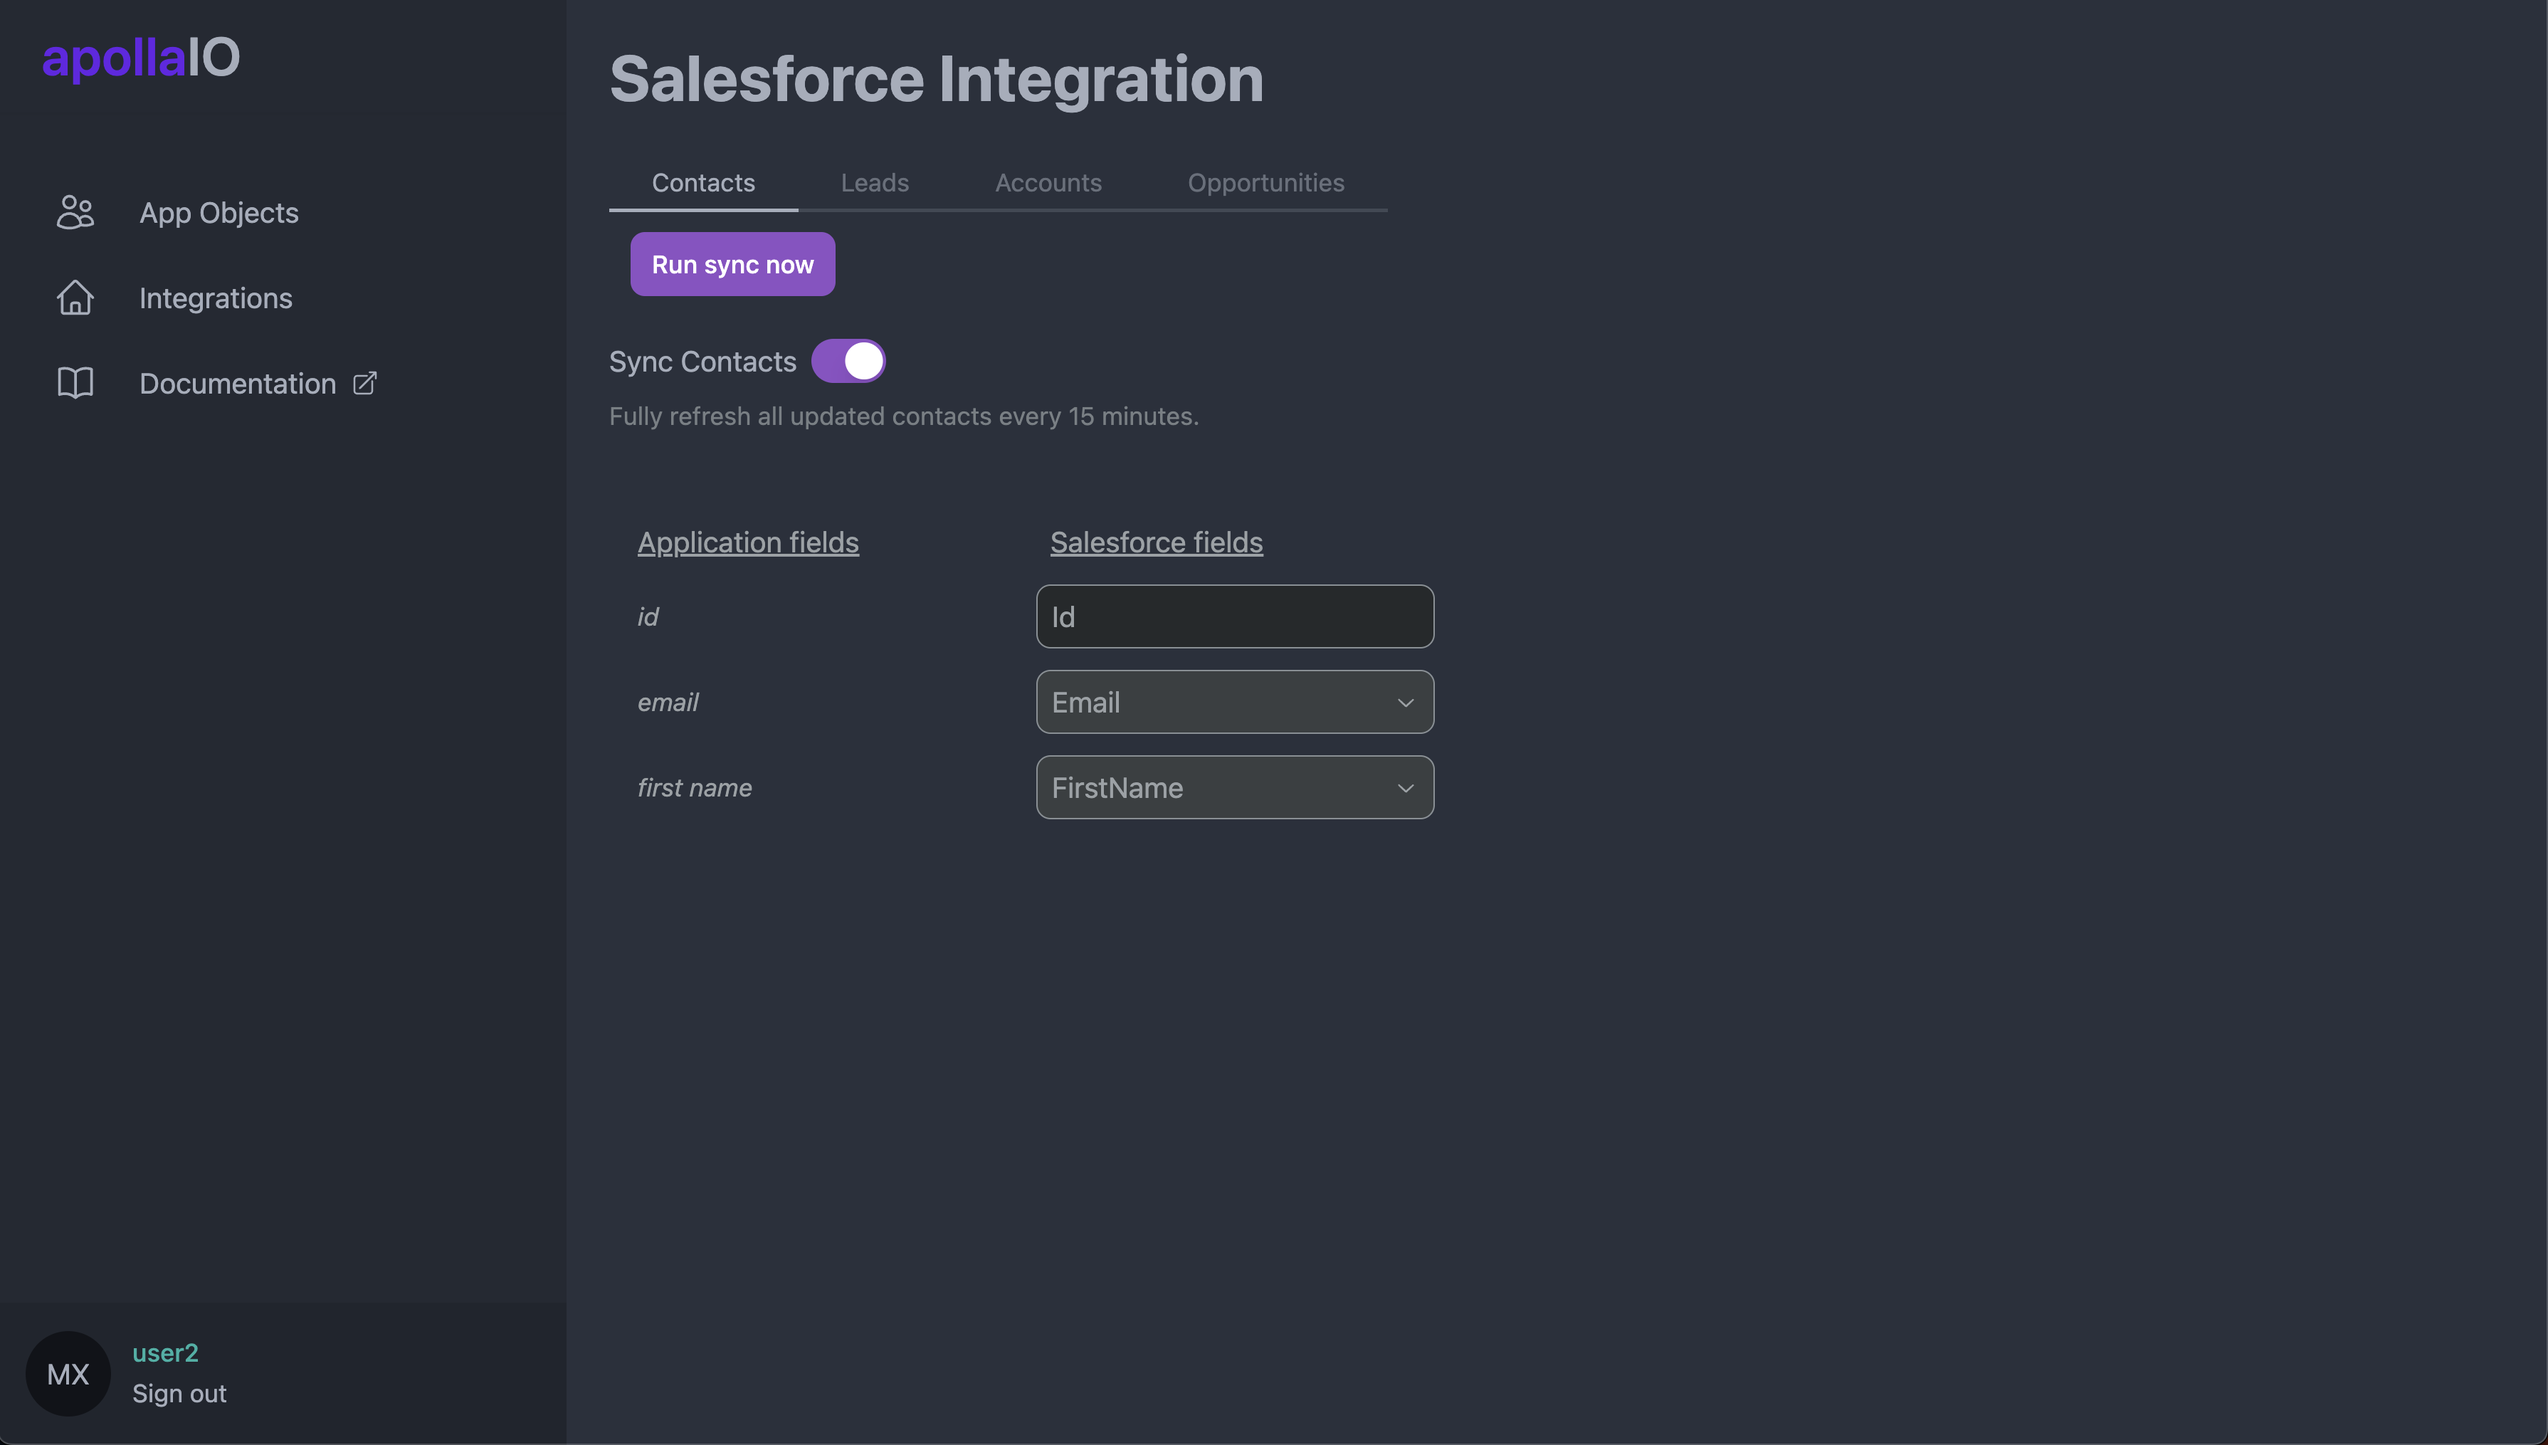
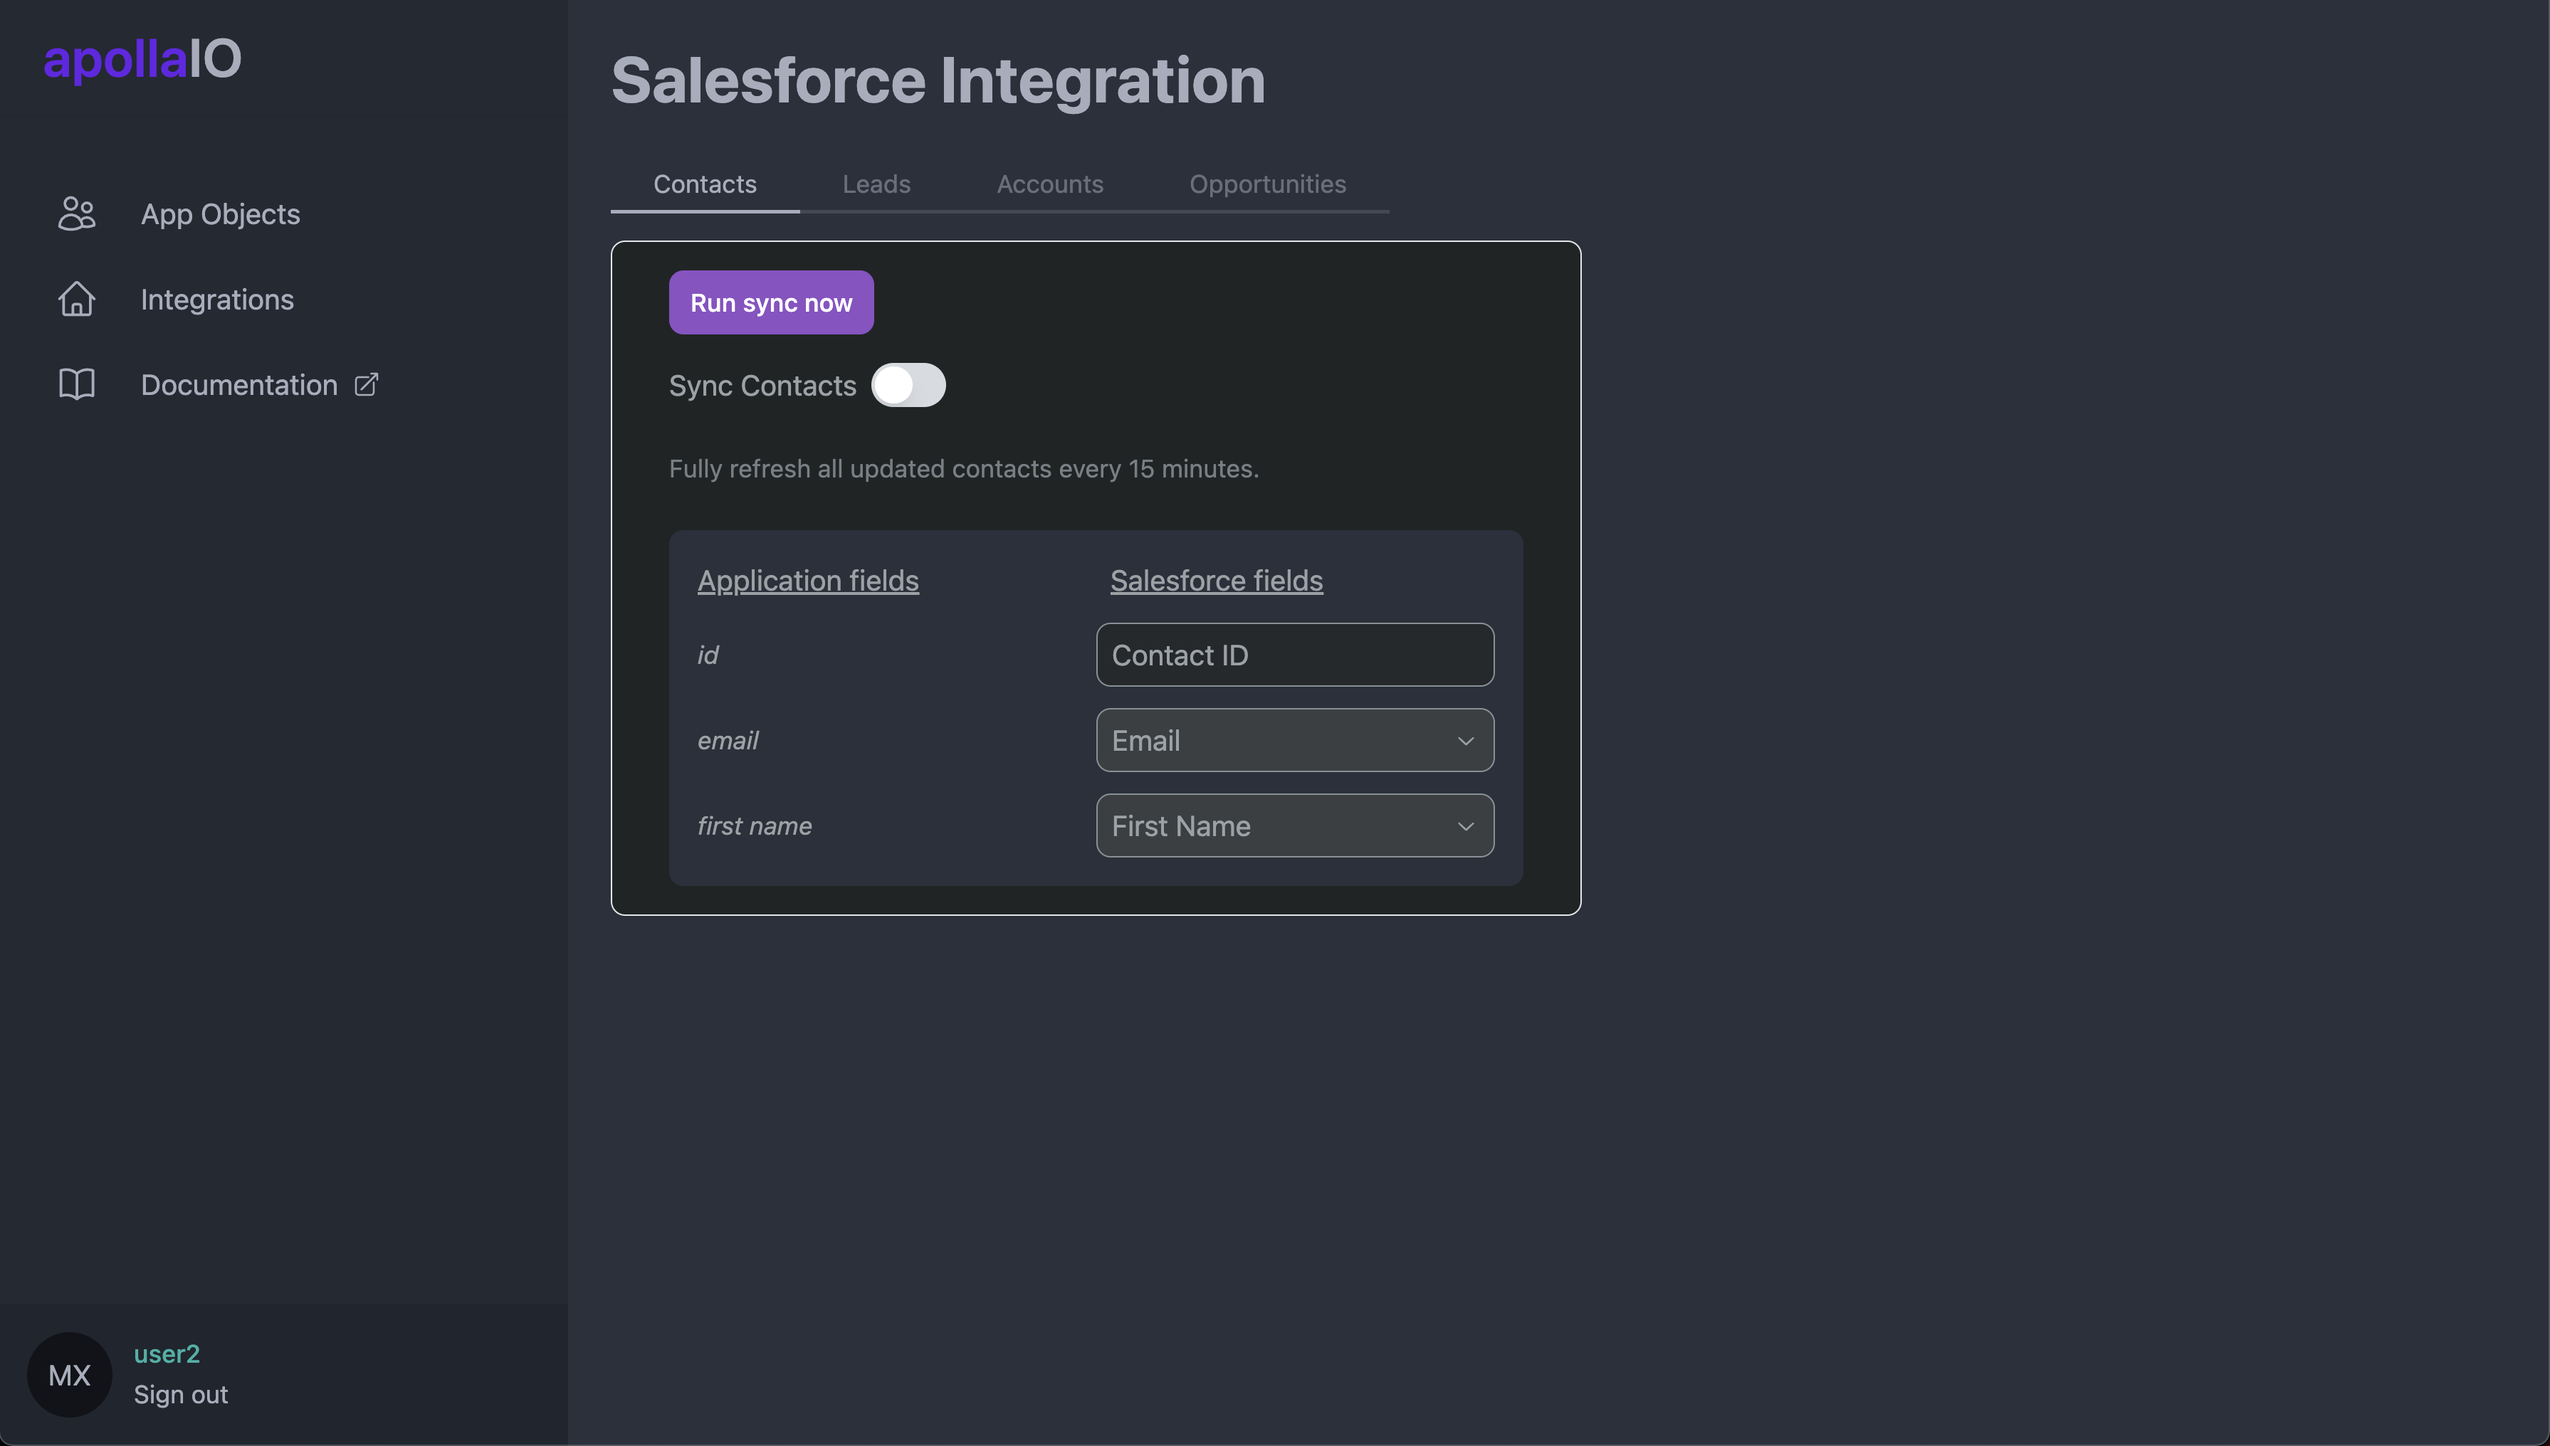
docs: update docs with new instructions and screenshots

diff --git a/apps/sample-app/pages/integrations/[type].tsx b/apps/sample-app/pages/integrations/[type].tsx
@@ -63,7 +63,16 @@ const SyncConfiguration = () => {
     <>
       <PageTabs className="" tabs={pageTabs} disabled={false} />
       <div className="flex pt-4">
-        <SyncConfigCard syncConfigName={syncConfigName} />
+        <SyncConfigCard
+          syncConfigName={syncConfigName}
+          // TUTORIAL: uncomment this
+          // appearance={{
+          //   elements: {
+          //     form: 'bg-base-100',
+          //     fieldName: 'italic text-sm',
+          //   },
+          // }}
+        />
       </div>
     </>
   );

diff --git a/docs/docs/tutorial.md b/docs/docs/tutorial.md
@@ -140,43 +140,6 @@ For this tutorial, we've included a sample [Developer Config](/concepts#develope
    Syncs Created: 1, Updated: 0, Deleted: 0, No Change: 3
    ```
 
-### Embed Salesforce integration UI
-
-Next, embed a Supaglue React component in the sample app that customers can use to further configure the integration for their own Salesforce instances.
-
-:::info
-
-The sample app already contains some Supaglue embedded components, <`IntegrationCard/>`, `<FieldMapping/>` and `<TriggerSyncButton/>`, for your reference.
-
-:::
-
-1.  Embed [`<SwitchSwitch/>`](react-components/#syncswitch) into `integrations/[type].tsx` in the sample app by uncommenting the code inside of `getSwitch()`:
-
-    ```tsx title=apps/sample-app/pages/integrations/[type]
-    // TUTORIAL: Uncomment this
-    import { SyncSwitch } from '@supaglue/nextjs';
-
-    // ...
-    const getSwitch = (syncConfigName: string) => {
-      // TUTORIAL: uncomment this
-      return (
-        <div className="py-2">
-          <SyncSwitch includeSyncDescription syncConfigName={syncConfigName} />
-        </div>
-      );
-    };
-    ```
-
-    This adds a switch that allows a customer to toggle the Contact sync we created on and off.
-
-    <BrowserWindow url="http://localhost:3000/integrations/salesforce#Accounts">
-
-    ![app_accounts_switch](/img/tutorial/app_accounts_switch.png 'salesforce accounts config')
-
-    </BrowserWindow>
-
-1.  Turn the switch on. The Accounts Sync will now run as a background task every 15 minutes.
-
 ### Test the integration
 
 Finally, let's manually trigger our sync to make sure it works as expected.
@@ -223,7 +186,7 @@ You may have realized that two of the columns in the sample app's Contacts table
 
 1. Update the schema object to include the two missing fields:
 
-   ```tsx title=apps/sample-app/supaglue-config/contact.ts
+   ```tsx title=apps/sample-app/supaglue-config/inbound/contact.ts
    const contactSchema = sdk.schema({
      fields: [
        // ...
@@ -250,7 +213,7 @@ You may have realized that two of the columns in the sample app's Contacts table
 
    <BrowserWindow url="http://localhost:3000/integrations/salesforce#Contacts">
 
-   ![app_filled_contacts](/img/tutorial/app_contacts_config.png 'salesforce contacts records')
+   ![app_filled_contacts](/img/tutorial/app_contacts_config_card.png 'salesforce contacts records')
    </BrowserWindow>
 
 1. Click "Run sync now". Once the background sync completes, verify the newly synced fields now contain values on the "App Objects" page.
@@ -311,9 +274,8 @@ Supaglue provides several React component customization options to change its lo
 1. In the sample app, locate the `<FieldMapping/>` component and add the following `appearance` prop to change the background of the form:
 
    ```jsx title=apps/sample-app/src/pages/integrations/[type].tsx
-   <FieldMapping
+   <SyncConfigCard
      syncConfigName={syncConfigName}
-     key={syncConfigName}
      // TUTORIAL: uncomment this
      appearance={{
        elements: {

diff --git a/docs/docs/quickstart.md b/docs/docs/quickstart.md
@@ -93,7 +93,7 @@ In this step, we will deploy Supaglue configuration to enable customers (i.e. `u
 
    <BrowserWindow url="http://localhost:3000/integrations/salesforce">
 
-   ![salesforce_config](/img/quickstart/app_salesforce_config.png 'salesforce config sample app')
+   ![salesforce_config](/img/quickstart/app_sync_config_card.png 'salesforce config sample app')
    </BrowserWindow>
 
 ## Run a Salesforce sync
